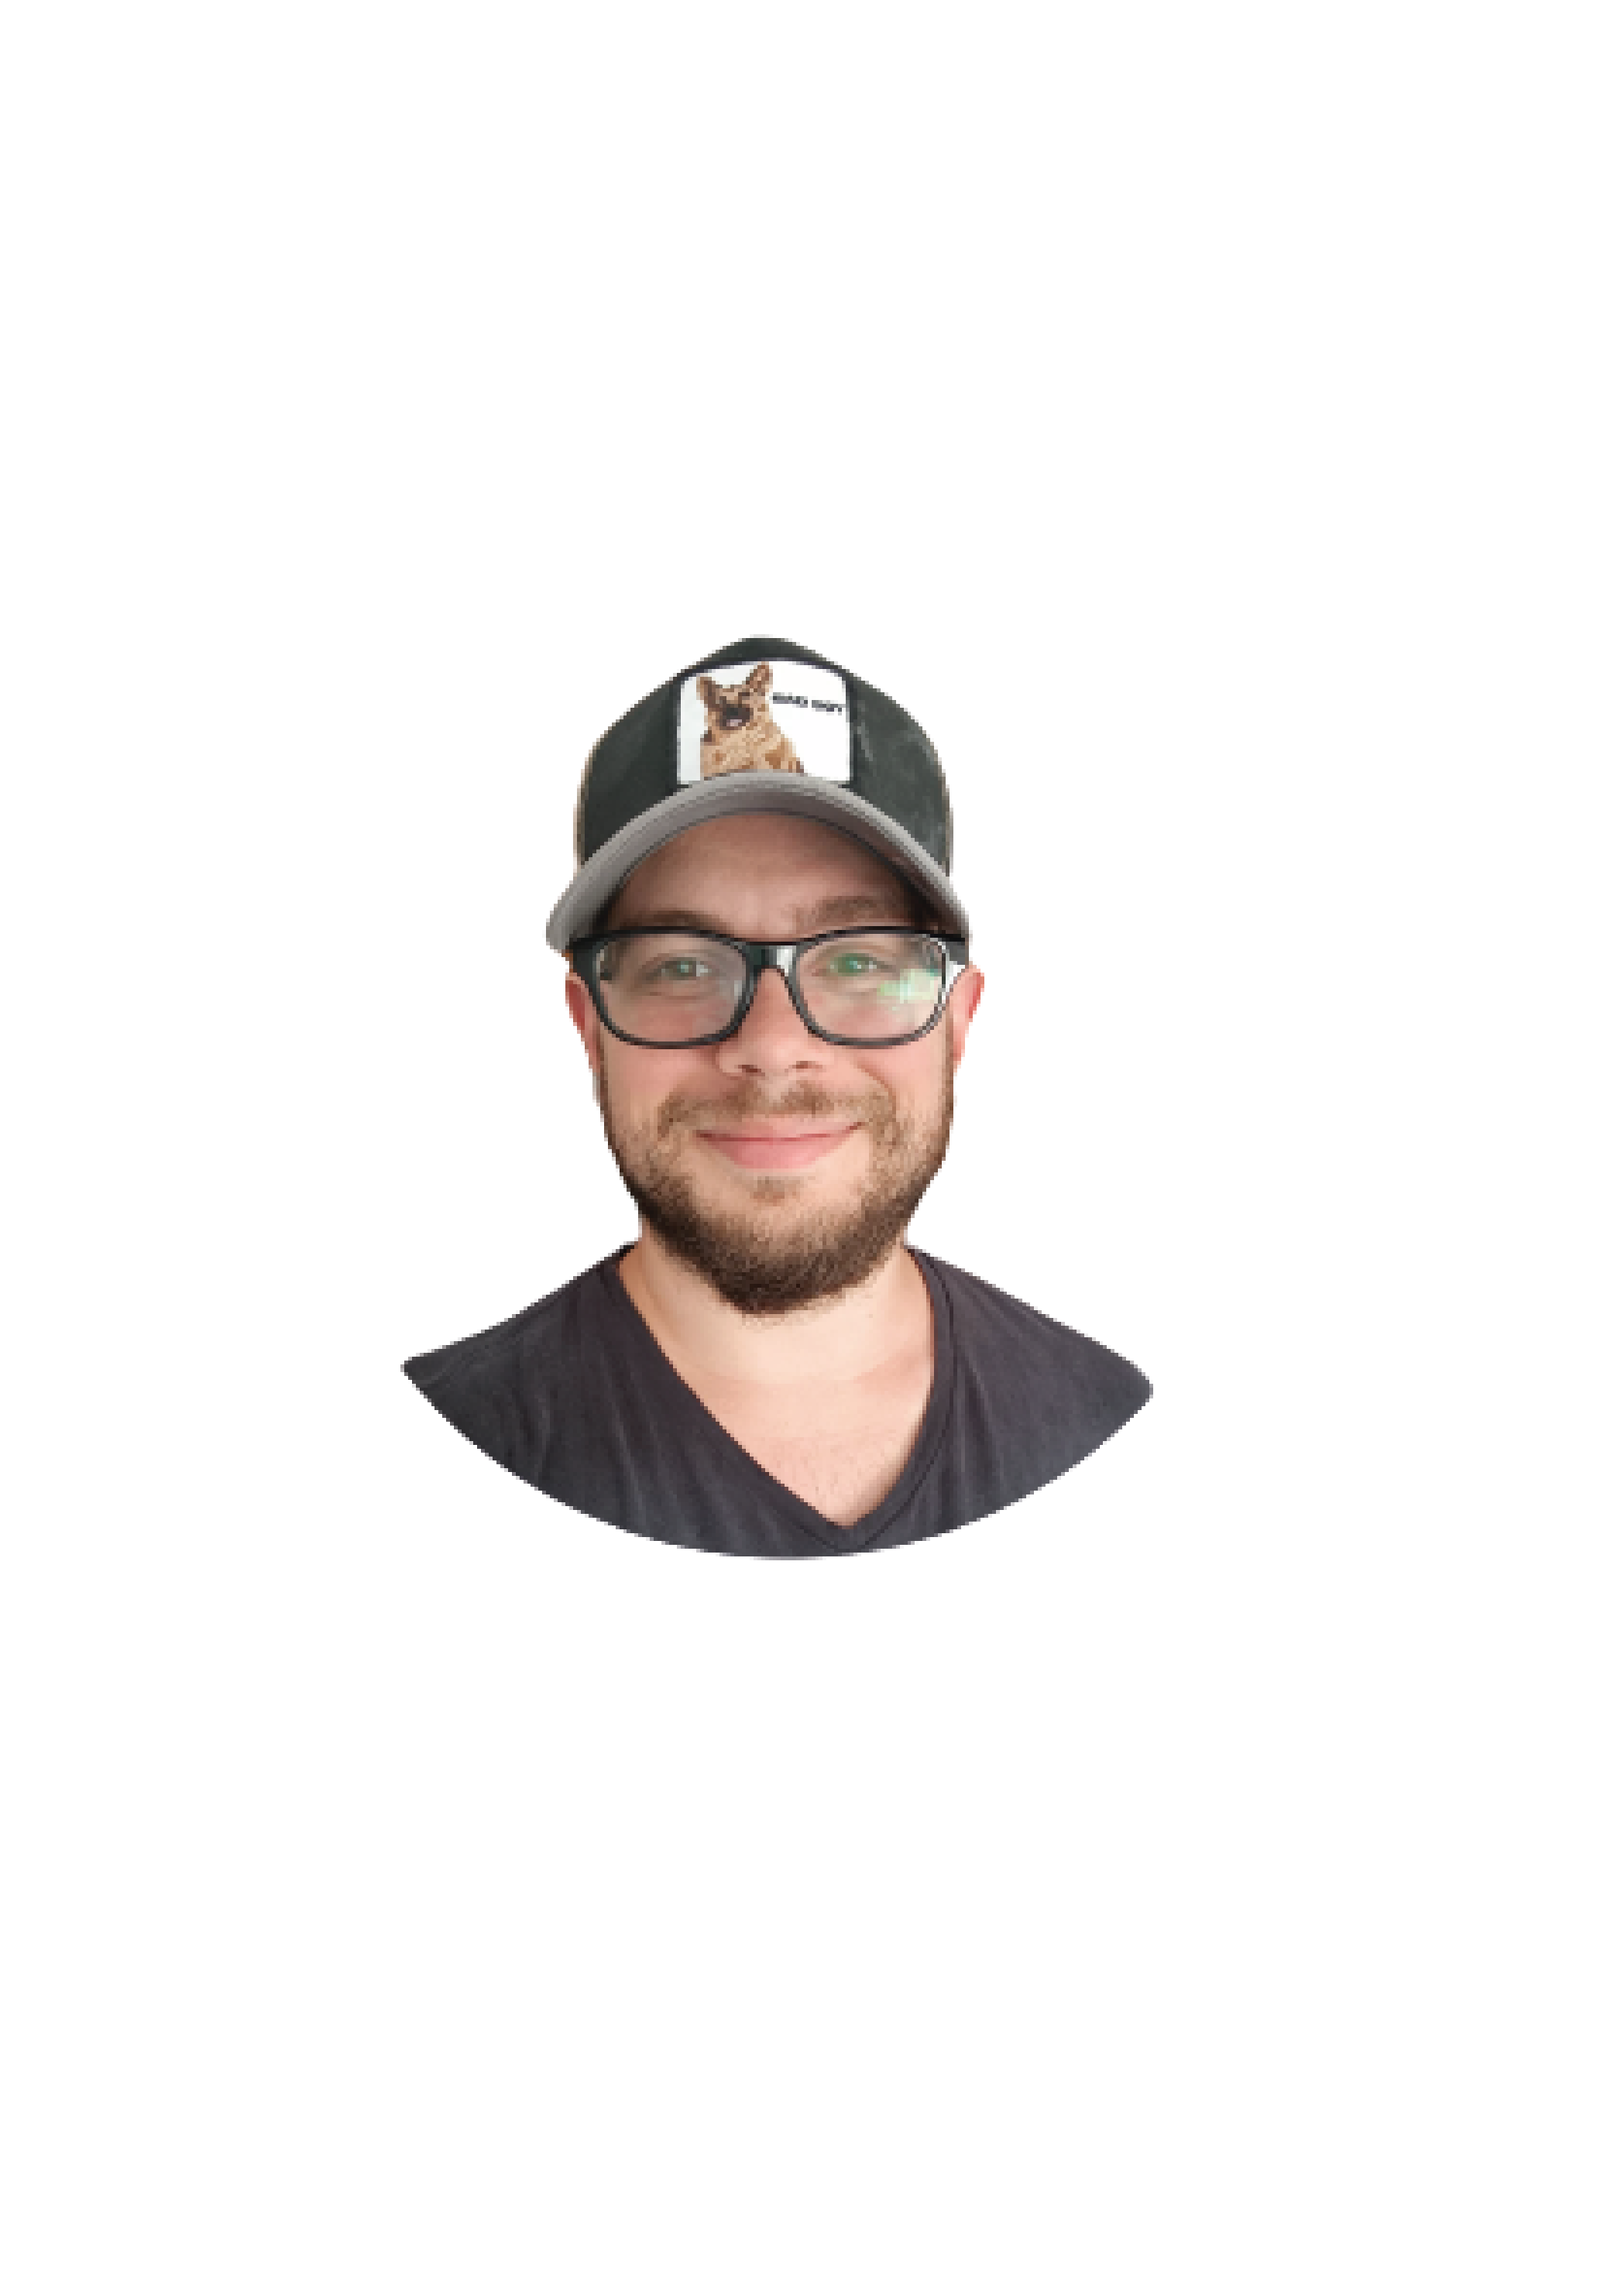
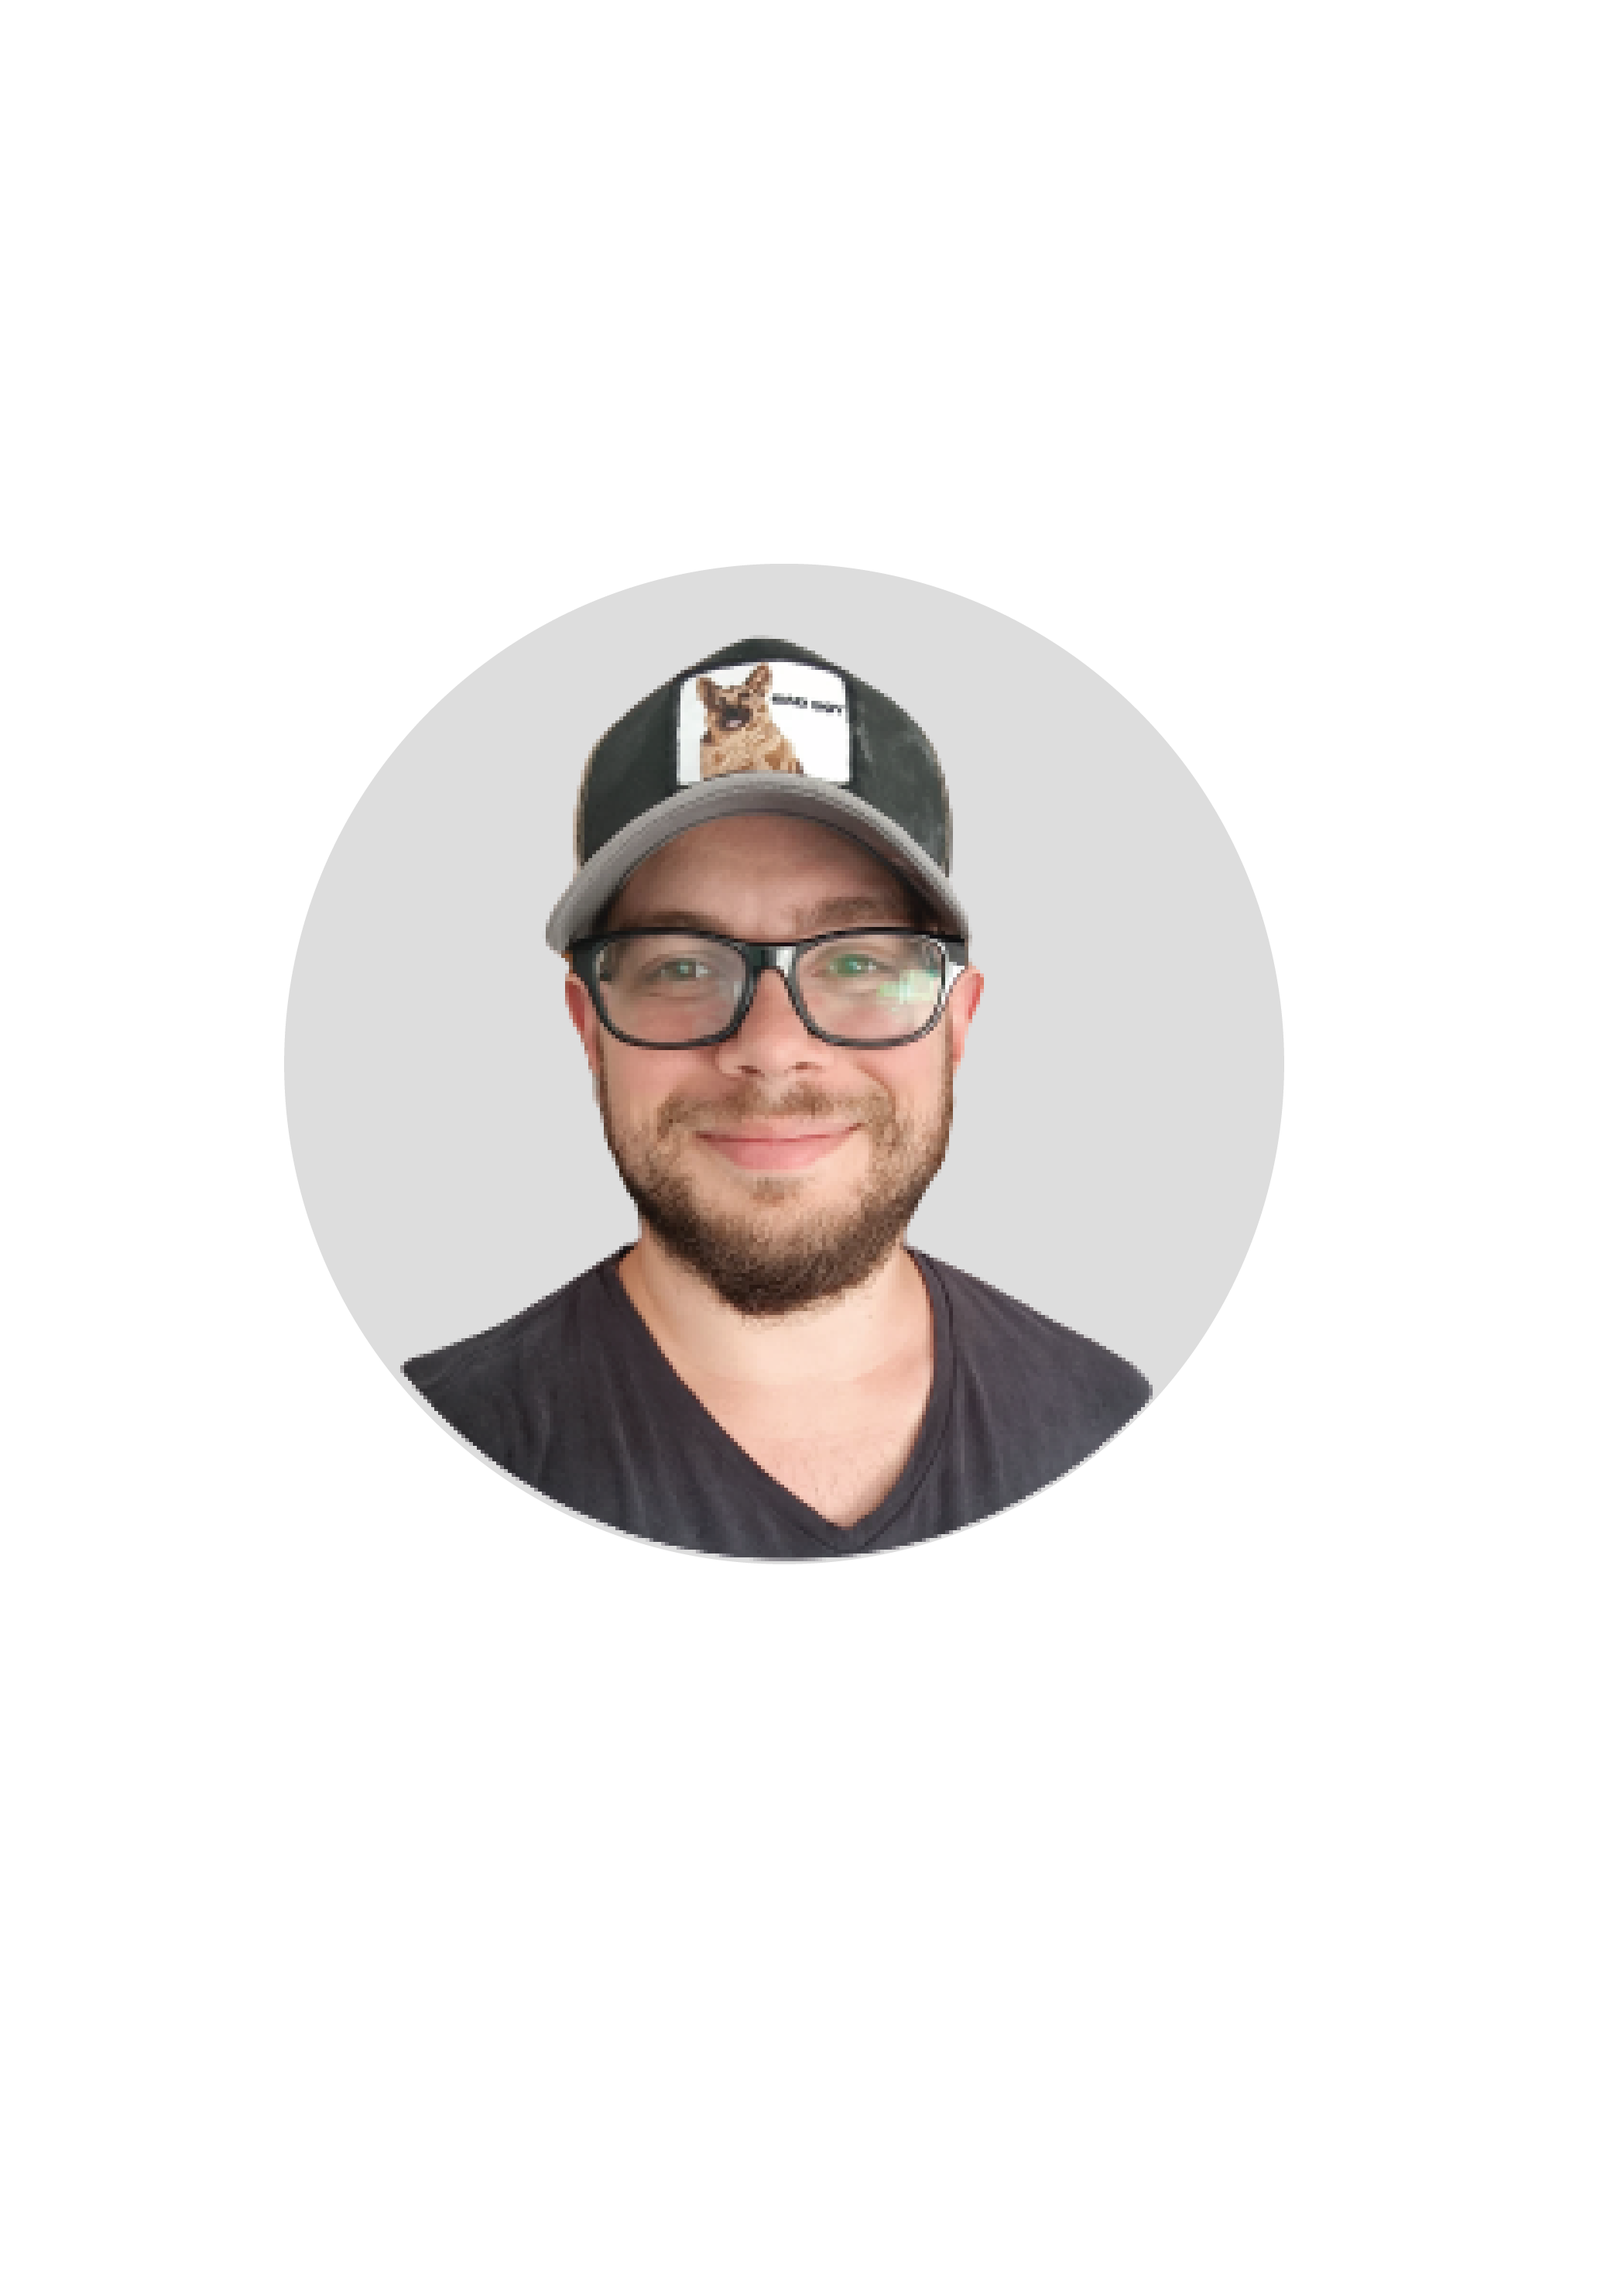
coloco fondo a imagen directo movil

Changed region(s): [[0.156, 0.2497, 0.8109, 0.6244], [0.2807, 0.6244, 0.3431, 0.6556], [0.3431, 0.6556, 0.3743, 0.6868]]

diff --git a/css/style.css b/css/style.css
@@ -67,7 +67,7 @@ aside, main{
     position: relative;
     top: 35.5em;
     left: 5.2em;
-    /* display: none; */
+    display: none;
 }
 
 .circulo-titulo{
